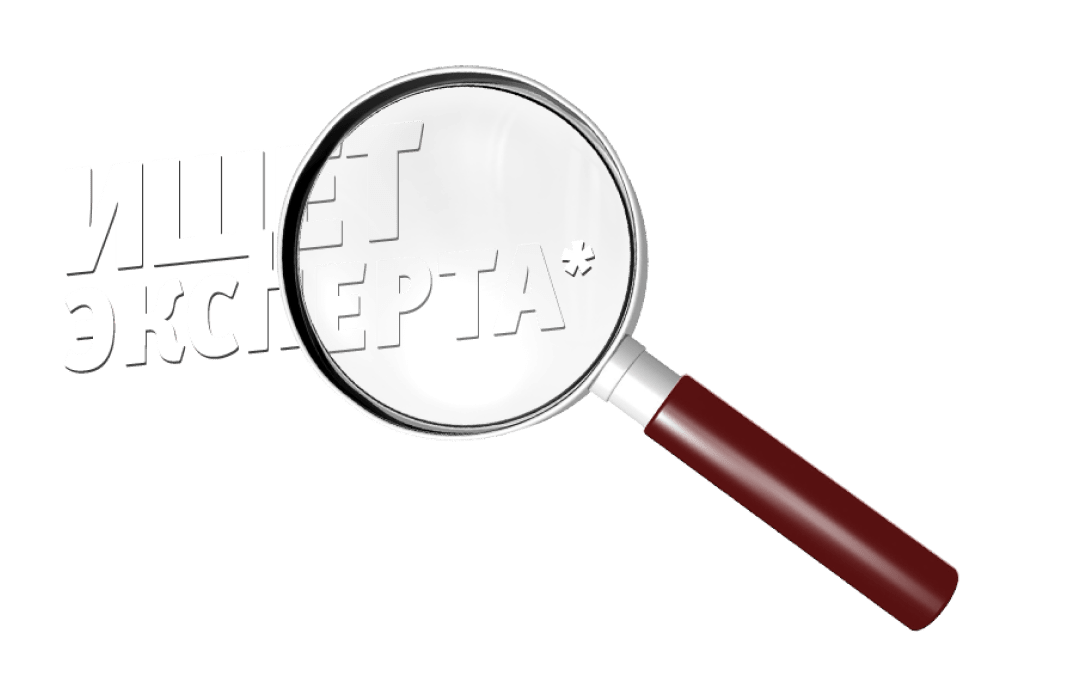
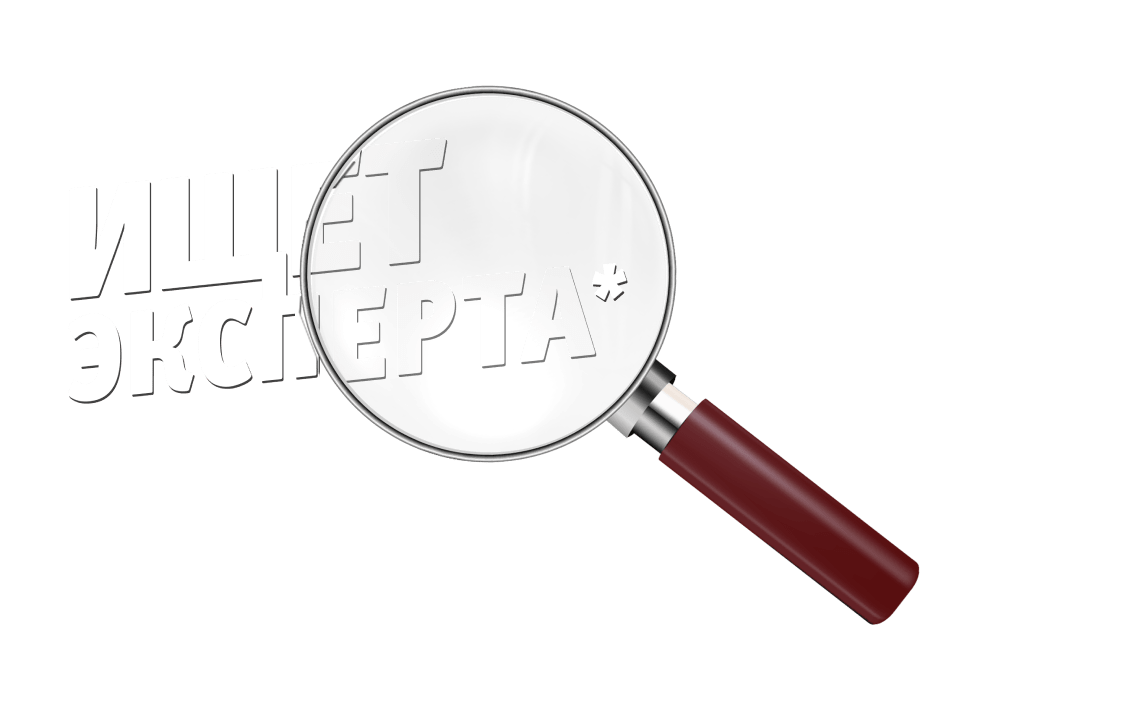
changes

diff --git a/src/html/expert.html b/src/html/expert.html
@@ -336,7 +336,7 @@
       <a href="tel:+78005558000" target="_blank" class="footer-link">
           Горячая линия: 8 800 555 8000
       </a>
-      <a href="#" class="footer-link">
+      <a href="#" class="footer-link expert-rules">
         Правила акции на роль эксперта
       </a>
       <a href="https://contactus.mdlzapps.com/form?siteId=IZ22RmFg%2feceuRKF%2fr1WlakAuGt%2b6K8FOdppYAoB0Mw%2fwwa1FTiQ%2bw%3d%3d" target="_blank" class="footer-link">

diff --git a/src/css/pages/expert.scss b/src/css/pages/expert.scss
@@ -172,12 +172,12 @@ body.expert-page {
 
     .find-expert-img {
       position: absolute;
-      top: -45px;
+      top: -50px;
       left: 450px;
       right: 0;
       margin: auto;
-      width: 534px;
-      height: 343px;
+      width: 563px;
+      height: 361px;
       background: url("../img/expert/expert-img.png") center no-repeat;
       background-size: cover;
       z-index: 4;

diff --git a/src/css/common/footer.scss b/src/css/common/footer.scss
@@ -40,6 +40,14 @@ footer {
     a {
       text-decoration: underline;
     }
+
+    .expert-rules {
+      margin-right: 60px;
+
+      @media screen and (max-width: $adaptive-mobile-top) {
+        margin-right: 0;
+      }
+    }
   }
 
   .footer-logo {
